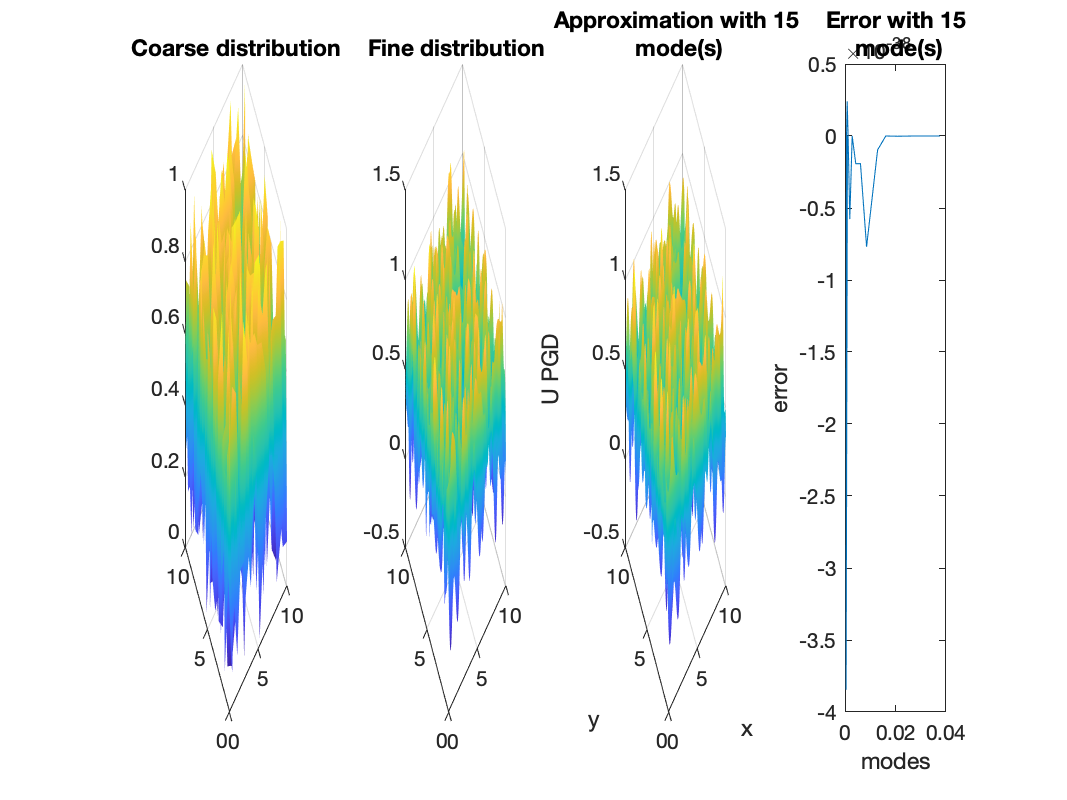
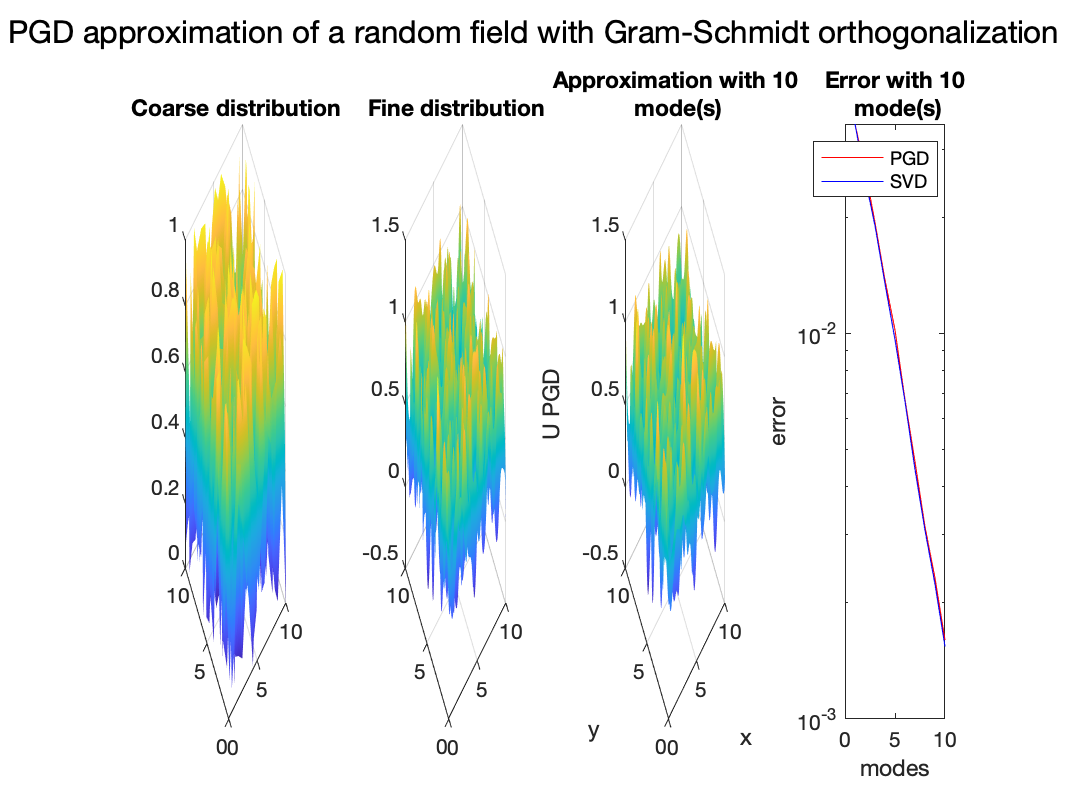
[TP1] Add solution with Grahm-Schmidth Ortho and SVD comparison (tag:w)

diff --git a/TP1_eleve/PGD_field_eleve.m b/TP1_eleve/PGD_field_eleve.m
@@ -39,8 +39,11 @@ Ug = rand(n_T/10,n_X/10);
 Uf = interp2(mesh_x_g,mesh_t_g,Ug,mesh_x_f,mesh_t_f,'spline');
 
 % Display distribution
- 
-
+ figure(1)
+subplot(1,4,1)
+surf(xc,tc,Ug)
+title("Coarse distribution")
+shading interp
 subplot(1,4,2)
 surf(xf,tf,Uf)
 title("Fine distribution")
@@ -63,7 +66,7 @@ end
 %% PGD Approximation
 
 % Number of modes
-n_modes    = 15;
+n_modes    = 10;
 
 % initialisation
 Lambda     = zeros(n_T,n_modes);
@@ -71,7 +74,12 @@ Gamma      = zeros(n_X,n_modes);
 U_PGD      = zeros(n_T,n_X);
 PGD_error = zeros(n_modes,1);
 Ustar = zeros(n_T,n_X);
-error = [];
+error = zeros(1, n_modes);
+error_svd = zeros(1, n_modes);
+
+% Do SVD
+[X,S,V] = svd(full(Uf));
+U_SVD = zeros(n_T,n_X);
 
 %% 
 % Greedy algorithm + fixed point 
@@ -128,17 +136,20 @@ for mode = 1:n_modes
 
     % compute the new PGD approximation with the added mode
     U_PGD = Lambda*Gamma';
-    
+    U_SVD = X(:,1:mode)*S(1:mode,1:mode)*V(:,1:mode)';    
     % Calculation of the reconstruction error with the sptio-temporal norm
     num = zeros(n_X, 1);
     den = zeros(n_X, 1);
     for i=1:n_X
         num(i) = (Uf(:, i) - U_PGD(:,i))'*It*(Uf(:, i) - U_PGD(:,i));
         den(i) = (Uf(:, i))'*It*(Uf(:, i));
+        num_svd(i) = (Uf(:, i) - U_SVD(:, i))'*It*(Uf(:, i) - U_SVD(:, i));
     end
     num = num'*Ix*num;
     den = den'*Ix*den;
-    error = [error num/den];
+    num_svd = num_svd*Ix*num_svd';
+    error(mode) = num/den;
+    error_svd(mode) = num_svd/den;
     subplot(1,4,3)
     surf(mesh_x_f,mesh_t_f,real(U_PGD))
     xlabel('x')
@@ -148,14 +159,17 @@ for mode = 1:n_modes
     Title = ["Approximation with "+ mode " mode(s)"];
     title(Title)
     subplot(1,4,4);
-    plot(error);
+    semilogy(real(error), 'r');
+    hold on
+    semilogy(real(error_svd), 'b');
+    legend('PGD', 'SVD');
     xlabel('modes');
     ylabel('error');
     Title2 = ["Error with "+ mode " mode(s)"];
     title(Title2)    
     pause(0.5)
 end
-
+sgtitle('PGD approximation of a random field with Gram-Schmidt orthogonalization')
 saveas(figure(1),'Results.png');
 saveas(figure(1),'../Final Report/assets/TP_1_PGD_Results.png');
 
